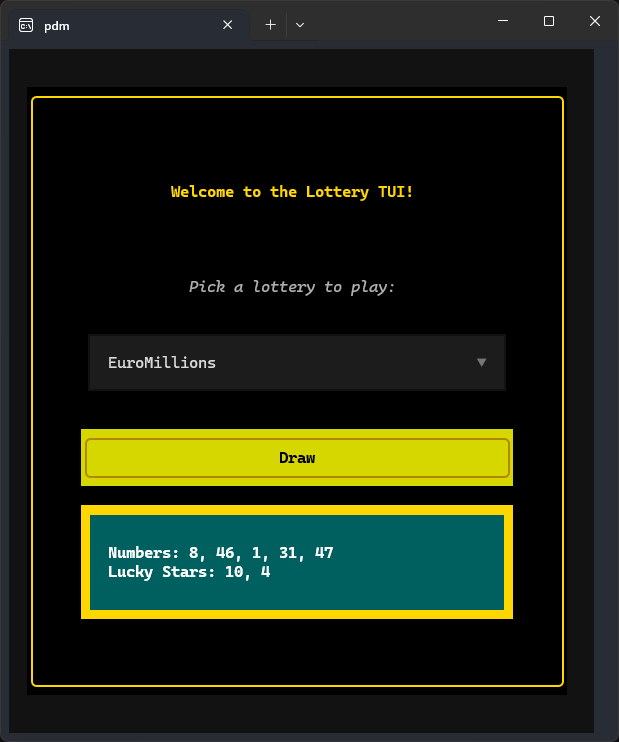
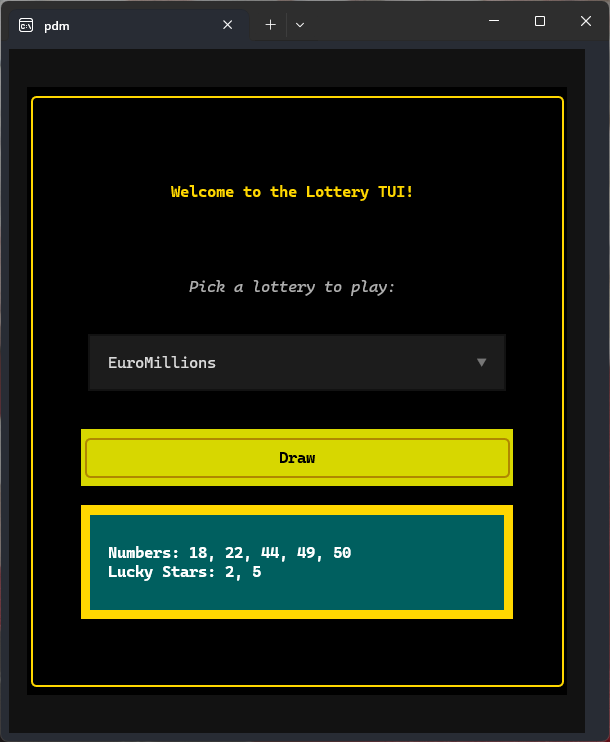
sort the numbers before printing them
upd screenshot to reflect sorted results

patch bump

diff --git a/src/lottery_tui/lottery.py b/src/lottery_tui/lottery.py
@@ -12,7 +12,7 @@ class Result(NamedTuple):
 
     def __str__(self) -> str:
         """Return a string representation of the lottery result."""
-        out = f'Numbers: {", ".join(str(n) for n in self.numbers)}'
+        out = f'Numbers: {", ".join(str(n) for n in sorted(self.numbers))}'
         if self.bonus:
             match self.kind:
                 case 'EuroMillions':
@@ -23,7 +23,7 @@ class Result(NamedTuple):
                     bonus_name = 'Thunderball'
                 case _:
                     bonus_name = 'Bonus Numbers'
-            out += f'\n{bonus_name}: {", ".join(str(n) for n in self.bonus)}'
+            out += f'\n{bonus_name}: {", ".join(str(n) for n in sorted(self.bonus))}'
         return out
 
 
